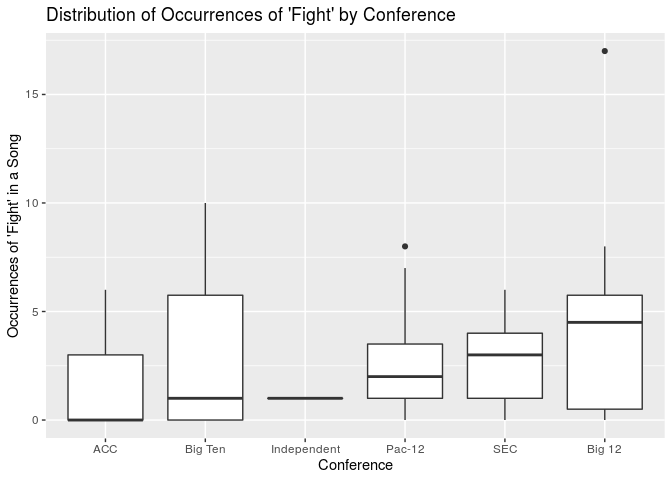
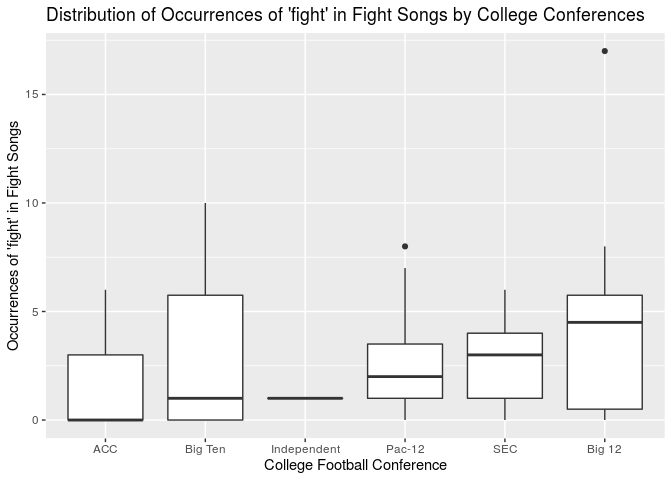
Improved Section 2

Changed region(s): [[0.4375, 0.0, 0.9688, 0.0625], [0.4062, 0.9375, 0.6562, 1.0], [0.0, 0.25, 0.0312, 0.7188]]

diff --git a/proposal/proposal.md b/proposal/proposal.md
@@ -44,28 +44,30 @@ formulate conclusions about the similarities in the fight songs of
 higher-ranked (more successful) teams due to the addition of this new
 variable.
 
-### Section 2: Exploratory data analysis
+### Section 2: Exploratory Data Analysis
 
-We are interested in learning whether the number of times that a fight
-song contains the word “fight” varies based on conference, as the more
-times “fight” is said might predict whether a conference as a whole is
-more or less aggressive than another conference. First, let’s analyze
-the variable number\_fights, which counts the number of times a song
-says “fight,” for all the teams. The histogram of number\_fights is
-below:
+We are interested in determining whether the number of times a fight
+song contains the word “fight” varies based on conference. Depending on
+the number of times this word appears, we can predict whether a
+particular conference is more or less aggressive than another
+conference. First, let’s analyze the variable `number_fights`, which
+counts the number of times “fight” appears in the fight song for each
+team. A histogram displaying the number of occurrences of this word is
+shown below:
 
 ``` r
 ggplot(data = fight_songs, mapping = aes(x = number_fights)) + 
   geom_histogram(binwidth = 1) + 
-  labs(x = "Occurrences of 'Fight' in a Song", y = "Number of Songs", title = "Number of Occurrences of 'Fight'")
+  labs(x = "Occurrences of 'fight' in Fight Songs", y = "Number of Songs", title = "Number of Occurrences of 'fight'")
 ```
 
 ![](proposal_files/figure-gfm/histogram-number_fights-1.png)<!-- -->
 
-Let’s also get the summary statistics for this distribution. In
-particular, we will use the median as a measure of center and IQR as a
-measure of spread (due to the skewness of the distribution). In
-addition, we will find Q1, Q3, the maximum, and the minimum.
+Let’s also calculate the summary statistics for this distribution.
+Specifically, we will use the median as a measure of center and the
+interquartile range as a measure of spread (due to the skewness of the
+distribution). In addition, we will find the upper and lower quartiles
+(Q3 and Q1 respectively), and the maximum and minimum values:
 
 ``` r
 fight_songs %>%
@@ -83,27 +85,29 @@ fight_songs %>%
     ## 1      2     5     0     5     0    17
 
 Based on the histogram, the shape of the distribution is clearly skewed
-to the right, meaning that there are more songs that say “fight” only a
-few times than songs that say “fight” multiple times. The distribution
-is clearly unimodal with one distinct peak at 0. The center (median) of
-the distribution occurs around 2, indicating that at least 50% of the
-songs contain 2 or less occurrences of the word “fight.” The data is
-fairly spread out, as indicated by an IQR of 5 and a range of 17. There
-are 2 outliers, which are the songs with number of fights greater than
-or equal to 12.5.
+to the right, implying that there are more songs that say “fight” only a
+few times compared to those that say “fight” multiple times. The
+distribution is clearly unimodal with one distinct peak located at x = 0
+(zero occurrences of ‘fight’). The center (median) of the distribution
+occurs x = 2 (‘fight’ appears twice), indicating that at least 50% of
+the songs contain 2 or less occurrences of this word. The data is fairly
+spread out, as indicated by an IQR of 5 and a range (maximum value minus
+minimum value) of 17. There are 2 outliers, which are the songs in which
+‘fight’ appears at least 12.5 times (obviously, a word cannot occur at
+half-integer frequencies, so the songs must contain this word at least
+13 times to move beyond Q3 + 1.5 \* IQR).
 
 Next, let’s analyze the distribution of the number of times a song says
-“fight,” for each conference. The box plot of number\_fights by
-conference is below:
+“fight,” for each conference. The box plot of `number_fights` by
+`conference` is
+below:
 
 ``` r
-  ggplot(data = fight_songs, mapping = aes(y = number_fights,
-                                           x = fct_reorder(factor(conference), 
-                                                           number_fights))) +
+  ggplot(data = fight_songs, mapping = aes(y = number_fights, x = fct_reorder(factor(conference), number_fights))) +
   geom_boxplot() +
   #geom_jitter(position=position_jitter(0.2)) +
-  labs(x = "Conference", y = "Occurrences of 'Fight' in a Song",
-       title = "Distribution of Occurrences of 'Fight' by Conference")
+  labs(x = "College Football Conference", y = "Occurrences of 'fight' in Fight Songs",
+       title = "Distribution of Occurrences of 'fight' in Fight Songs by College Conferences")
 ```
 
 ![](proposal_files/figure-gfm/box_plot_fights_by_conference-1.png)<!-- -->
@@ -139,7 +143,7 @@ highest median occurences of “fight” are Big 12 and then SEC while the
 conferences with the lowest median occurences of “fight” are the ACC and
 then Big Ten.
 
-### Section 3: Research questions
+### Section 3: Research Questions
 
 ### Section 4: Data
 
